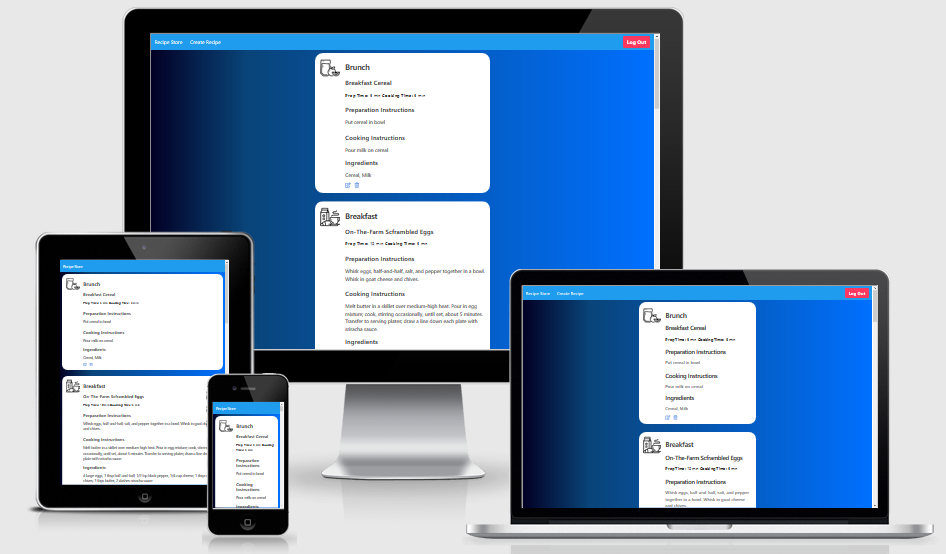
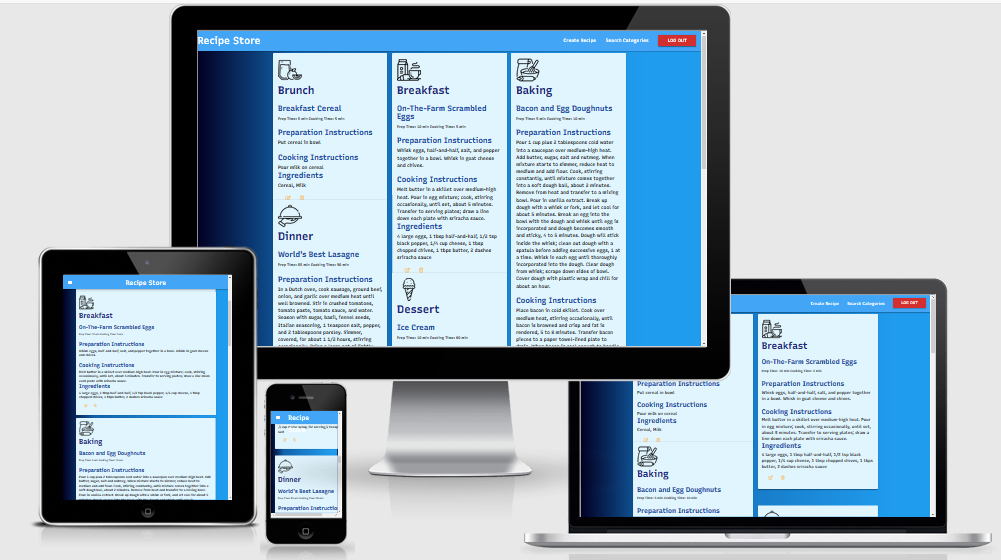
Updated signup for mobile view and changed create recipe form to fit the device width better on all sizes

diff --git a/templates/signup.html b/templates/signup.html
@@ -1,26 +1,33 @@
 {% extends 'base.html' %}
 {% block content %}
-    <div class="column is-4 is-offset-4">
-        <h3 class="title title is-size-2 is-size-1-mobile has-text-centered has-text-white">Sign Up</h3>
-        <div class="box">
+<section id="login-form container">
+    <div class="row">
+        <div class="title">
+            <h1>Sign Up!</h1>
+        </div>
+    </div>
+    <div class="row">
+        <div class="col m4 s10 offset-m4 offset-s1">
+        
             <form method="POST" action="/signup">
-                <div class="field">
+                <div class="input-field">
                     <div class="control">
                         <input class="input is-large" type="text" name="username" placeholder="Name" autofocus="">
                     </div>
-                    <!-- Display flashed messaged if Usernames are taken or incorrect --> <!-- Username field -->
+<!-- Display flashed messaged if Usernames are taken or incorrect --> <!-- Username field -->
                     {% with messages = get_flashed_messages() %} {% if messages %}
                     {% for message in messages %} 
-                    <p class="help is-danger">{{ message }}</p>
+                    <p class="help">{{ message }}</p>
                     {% endfor %}{% endif %}{% endwith %}
                 </div>
-                <div class="field">
+                <div class="input-field">
                     <div class="control">
                         <input class="input is-large" type="password" name="password" placeholder="Password">
                     </div>
                 </div>
-                <button class="button is-block is-info is-large is-fullwidth">Sign Up</button>
+                <button class="btn waves-effect orange darken-1" type="submit" name="action">Sign Up
+                <i class="material-icons right">lock_open</i>
+                </button>
             </form>
-        </div>
     </div>
 {% endblock %}

diff --git a/templates/login.html b/templates/login.html
@@ -3,7 +3,7 @@
 <section id="login-form container">
     <div class="row">
         <div class="title">
-        <!-- <h1>Welcome to the Recipe Store!</h1> -->
+            <h1>Welcome to the Recipe Store!</h1>
         </div>
     </div>
     <div class="row">
@@ -23,7 +23,7 @@
                     </div>
                     {% with messages = get_flashed_messages() %} {% if messages %}
                     {% for message in messages %} 
-                    <p class="help red darken-2">{{ message }}</p>
+                    <p class="help">{{ message }}</p>
                     {% endfor %}{% endif %}{% endwith %}
                 </div>
 <!-- Password field -->

diff --git a/templates/createrecipe.html b/templates/createrecipe.html
@@ -4,7 +4,7 @@
     <h1 class="title">Create Recipe</h1>
         <div class="row">
 <!-- Create Recipe Form with action for recipe insertion-->
-            <form class="col s12" action="{{url_for('insert_recipe')}}" method="POST">
+            <form class="col s12 l8 offset-l2" action="{{url_for('insert_recipe')}}" method="POST">
                 <div class="row">
                     <div class="input-field col s6">
                         <select

diff --git a/static/css/style.css b/static/css/style.css
@@ -29,7 +29,9 @@ form {
 .task_header {
     margin-top: 5px;
 }
-
+.help {
+    color: red;
+}
 /* Alignment of recipes displayed in Media Content */
 
 .media {
@@ -70,7 +72,7 @@ form {
 }
 .grid {
   display: grid;
-  grid-gap: 15px;
+  grid-gap: 30px;
   grid-template-columns: repeat(auto-fit, minmax(350px,1fr));
   grid-auto-rows: 100px;
 }

diff --git a/README.md b/README.md
@@ -9,7 +9,8 @@ The app I created is a single page site. I chose to create an online recipe sapp
 
 ## UX
  
-The UX is a simple single page. A standard navbar which concatenates to a burger icon when in mobile view allows users to recognise the simple nav structure. The 'log in' & 'Sign Up' buttons are only visible when the user isn't logged in, otherwise a 'Log Out' button replaces them. The recipes are displayed vertically down the centre of the site once retrieved from MongoDB.
+The UX is a simple single page. A standard navbar which concatenates to a burger icon when in mobile view allows users to recognise the simple nav structure. The 'log in' & 'Sign Up' buttons are only visible when the user isn't logged in, otherwise a 'Log Out' button replaces them. The recipes are displayed in a masonary pattern across the page when screen width allows once retrieved from MongoDB.
+
 Simple form structures clearly identify input fields for the user to create any recipes. 
 
 ### Typical User Stories
